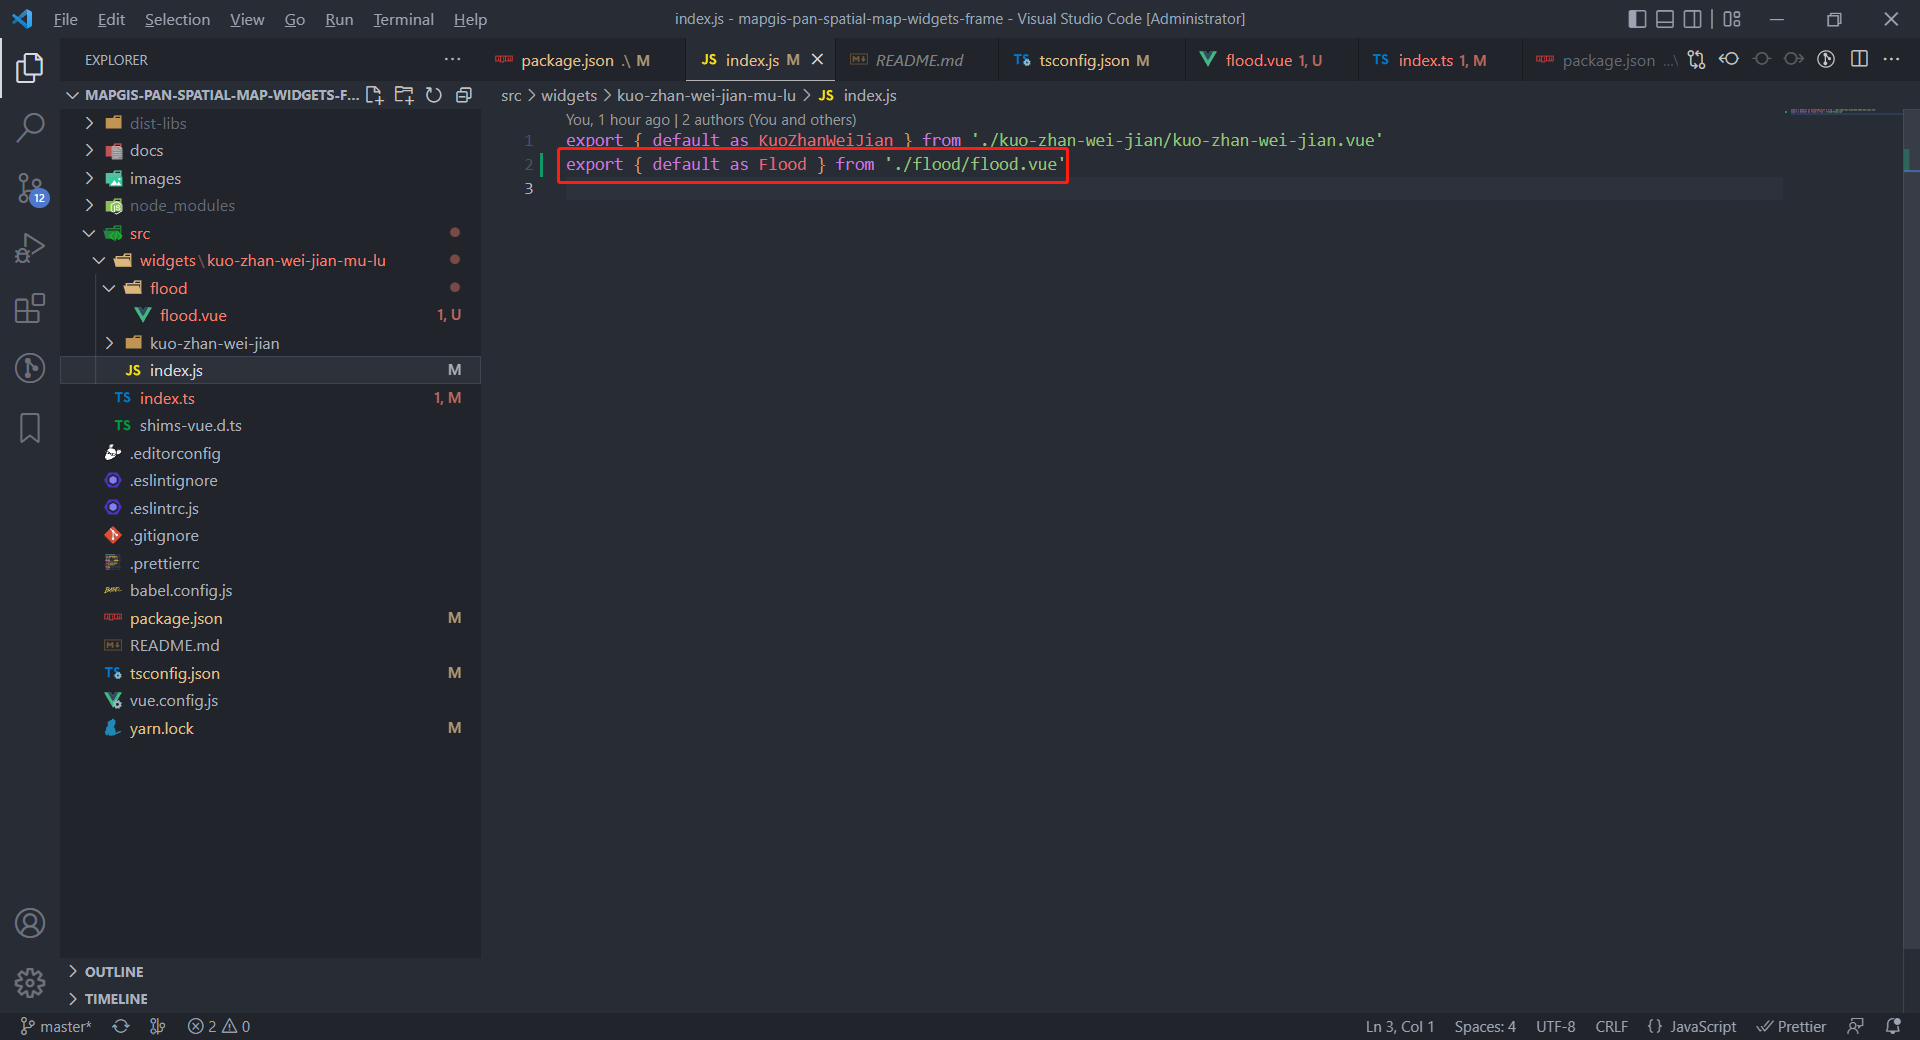
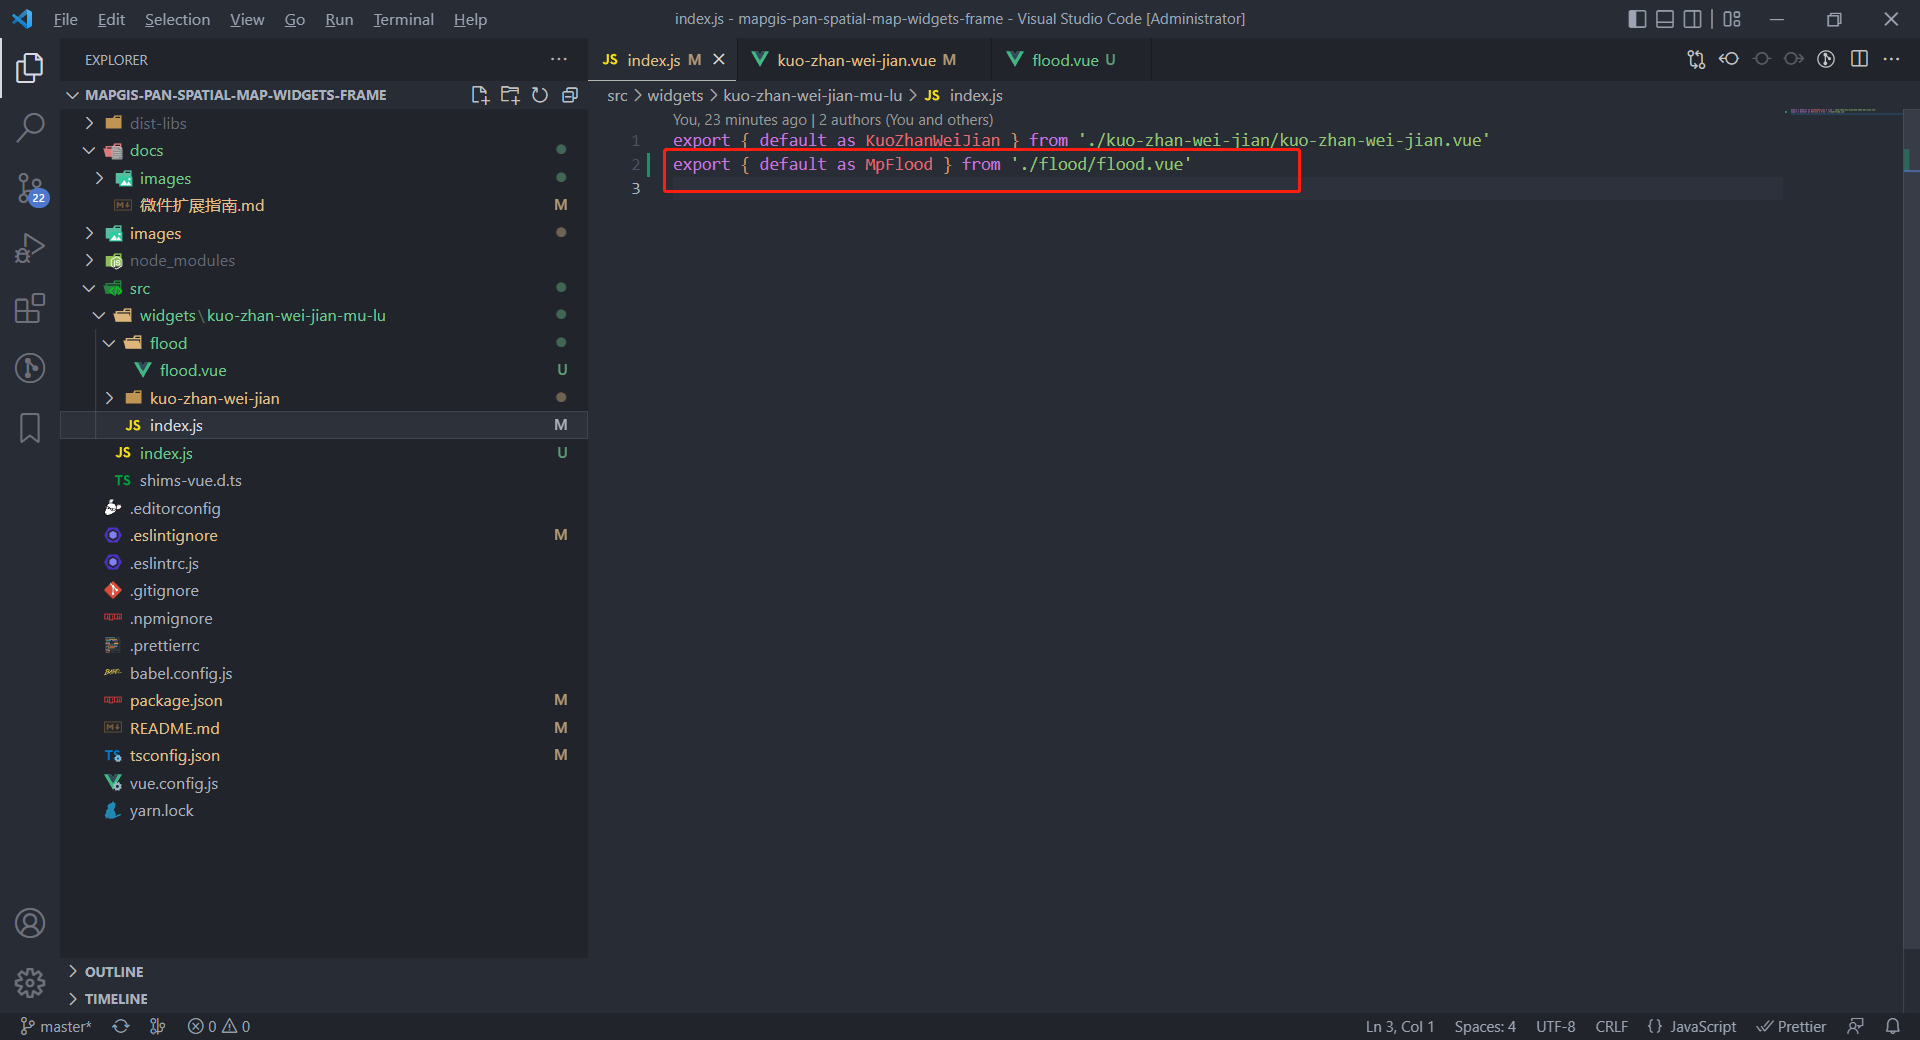
feat: 更新.md

diff --git a/cesium/src/components/Analysis/Flood.vue b/cesium/src/components/Analysis/Flood.vue
@@ -57,8 +57,8 @@ import {
   colorToCesiumColor,
   isDepthTestAgainstTerrainEnable,
   setDepthTestAgainstTerrainEnable
-} from "../Util/cesium-util";
-import { getPolygonSamplePoints } from "../Util/common-util";
+} from "../util/cesiumUtil";
+import { getPolygonSamplePoints } from "../util/commonUtil";
 
 export default {
   name: "mapgis-3d-analysis-flood",

diff --git a/cesium/src/component.js b/cesium/src/component.js
@@ -1,2 +1,2 @@
-export { default as Mapgis3dFlood } from "./components/Analysis/Flood";
-export { default as Mapgis3dOutputImage } from "./components/UI/Controls/output-image/OutputImage";
+export { default as Mapgis3dFlood } from "./components/analysis/Flood";
+export { default as Mapgis3dOutputImage } from "./components/ui/controls/output-image/OutputImage";

diff --git a/docs/add-component-to-mapgis-pan-spatial-map.md b/docs/add-component-to-mapgis-pan-spatial-map.md
@@ -11,7 +11,7 @@
 
    > 如果新建组件包已传入npm，则可以直接在mapgis-pan-spatial-map-widgets-frame/package.json的dependencies对象中引入@mapgis/webclient-vue-cesium-example，link这步就可以省掉了。
 
-2. 在mapgis-pan-spatial-map-widgets-frame/src/index.ts中引入@mapgis/webclient-vue-cesium-example，并use。
+2. 在mapgis-pan-spatial-map-widgets-frame/src/index.js中引入@mapgis/webclient-vue-cesium-example，并use。
 
    ![component9.png](./images/component9.png)
 
@@ -29,15 +29,15 @@
 
 ## 2、在一张图中添加新建微件
 
-1. 下载mapgis-pan-spatial-map-pro-antd，在mapgis-pan-spatial-map-pro-antd/packages/src/main.js中，引入@mapgis/mapgis-pan-spatial-map-widgets-frame，并use。
+1. 下载mapgis-pan-spatial-map-app，在mapgis-pan-spatial-map-app/src/core/use.js 中引入@mapgis/mapgis-pan-spatial-map-widgets-frame，并use。
 
    ![component13.png](./images/component13.png)
 
-2. 在一张图数据配置中，apps/widgets中新增flood文件夹，配置manifest.json和config.json信息。
+2. 在 mapgis-pan-spatial-map-mock-server/mock/data/widgets 里增加 flood文件夹，配置manifest.json和config.json信息。
 
    ![component14.png](./images/component14.png)
 
-3. 在app.json或者管理平台中，将 洪水淹没 微件配置到一张图中。
+3. 在 mapgis-pan-spatial-map-mock-server/mock/data/app.json 中或者管理平台中，将 洪水淹没 微件配置到一张图中。
 
    ![component15.png](./images/component15.png)
 
